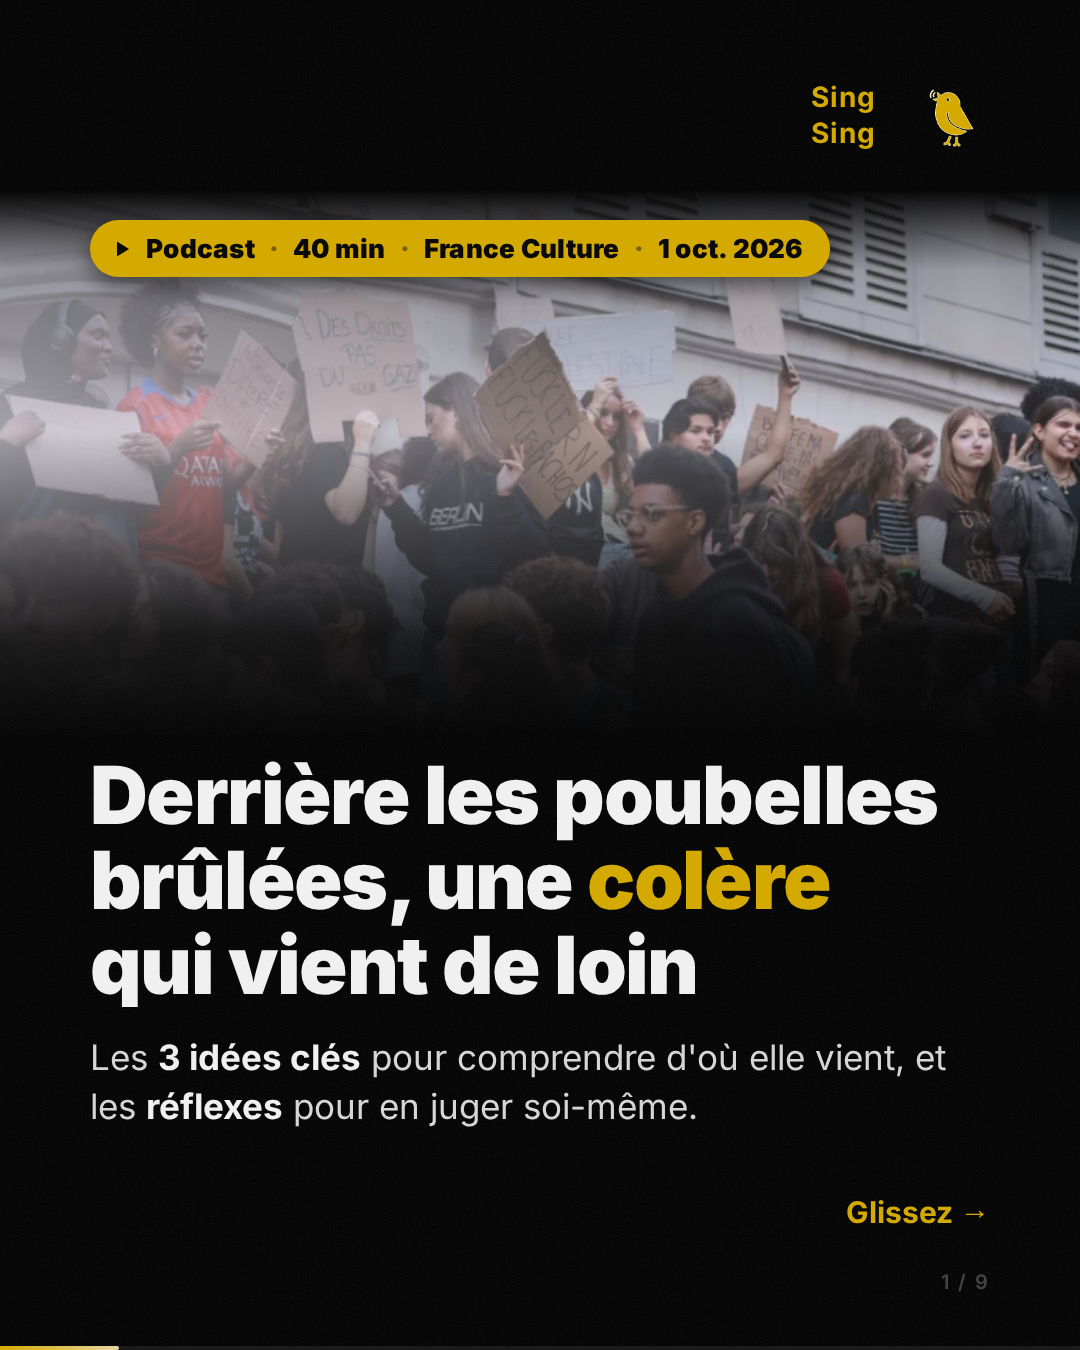
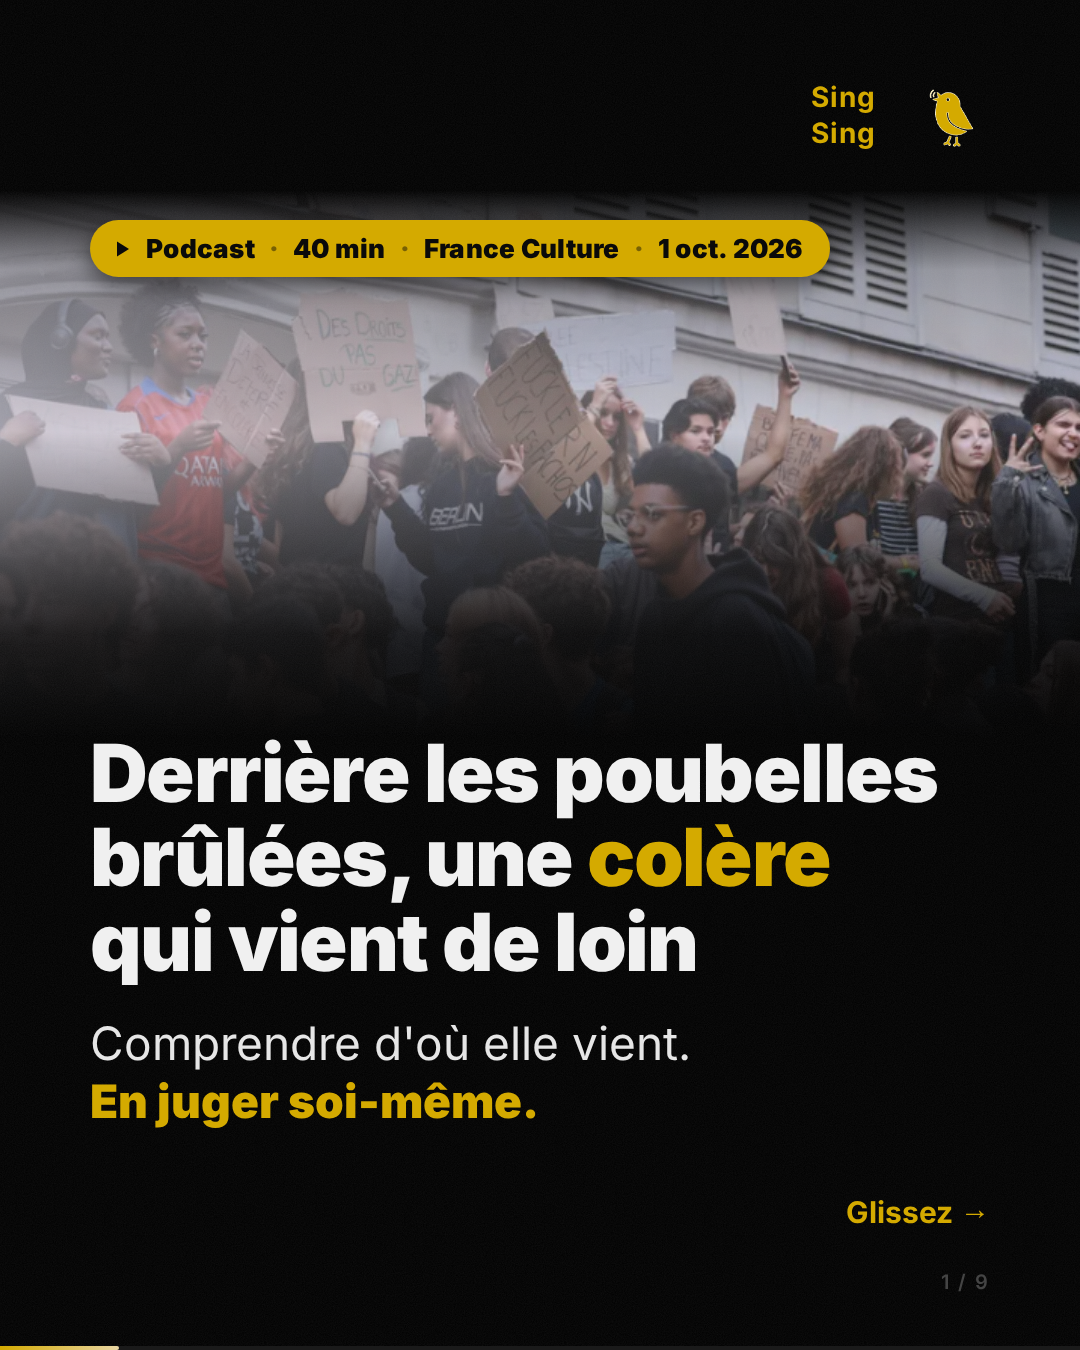
chore(samples): podcast_1 slide 1 promise — « Comprendre d'où elle vient. »

Changed region(s): [[0.0611, 0.5289, 0.8861, 0.84]]

diff --git a/samples/podcasts/podcast_1/instagram_carousel_optimized/html/01_hook.html b/samples/podcasts/podcast_1/instagram_carousel_optimized/html/01_hook.html
@@ -420,7 +420,7 @@ body {
 .giant svg circle { fill: none; }
 /* — Slide 1 says, at a glance, what the source is and what the deck gives.
    The source is named by a pill (medium · length · source · date); the deck's
-   promise is the title + the subtitle. No other label: the old « Sélection »,
+   promise is the title + « Comprendre … » + « En juger soi-même. » No other label: the old « Sélection »,
    « On décrypte » and the act tracker made four framings compete. — */
 .src-pill { align-self: flex-start; display: inline-flex; flex-wrap: wrap; align-items: center; gap: 4px 12px; max-width: 900px;
   background: #d4aa00; color: #0a0a0a; font-size: 26px; font-weight: 800; letter-spacing: .01em;
@@ -449,8 +449,9 @@ body {
 /* — The title, then the promise that continues it. — */
 .cover-head { font-size: 85px; font-weight: 900; line-height: 1.06; letter-spacing: -0.02em; color: #f0f0f0; max-width: 900px; margin-top: 44px; text-wrap: balance; display: -webkit-box; -webkit-line-clamp: 4; -webkit-box-orient: vertical; overflow: hidden; }
 .cover-head strong { color: #d4aa00; font-weight: 900; }
-.subtitle { font-size: 35px; line-height: 1.38; color: #d6d6d6; margin-top: 26px; max-width: 900px; text-wrap: pretty; }
-.subtitle strong { color: #f0f0f0; font-weight: 700; }
+.subtitle { font-size: 46px; line-height: 1.25; color: #e6e6e6; margin-top: 30px; max-width: 900px; }
+/* the second half of the promise is Sing Sing's, the same on every deck */
+.subtitle .judge { color: #d4aa00; font-weight: 800; }
 .swipe { margin-top: auto; padding-top: 24px; margin-bottom: 40px; font-size: 30px; font-weight: 700; color: #d4aa00; text-align: right; }
 .slide.bleed .swipe { margin-top: 40px; }
 </style>
@@ -471,7 +472,7 @@ body {
 
   
   <h1 class="cover-head" style="font-size: 80px">Derrière les poubelles brûlées, une <strong>colère</strong> qui vient de loin</h1>
-  <p class="subtitle">Les <strong>3 idées clés</strong> pour comprendre d&#39;où elle vient, et les <strong>réflexes</strong> pour en juger soi-même.</p>
+  <p class="subtitle">Comprendre d&#39;où elle vient.<br><span class="judge">En juger soi-même.</span></p>
 
   <div class="swipe">Glissez &#8594;</div>
   <div class="slide-num">1 / 9</div>
